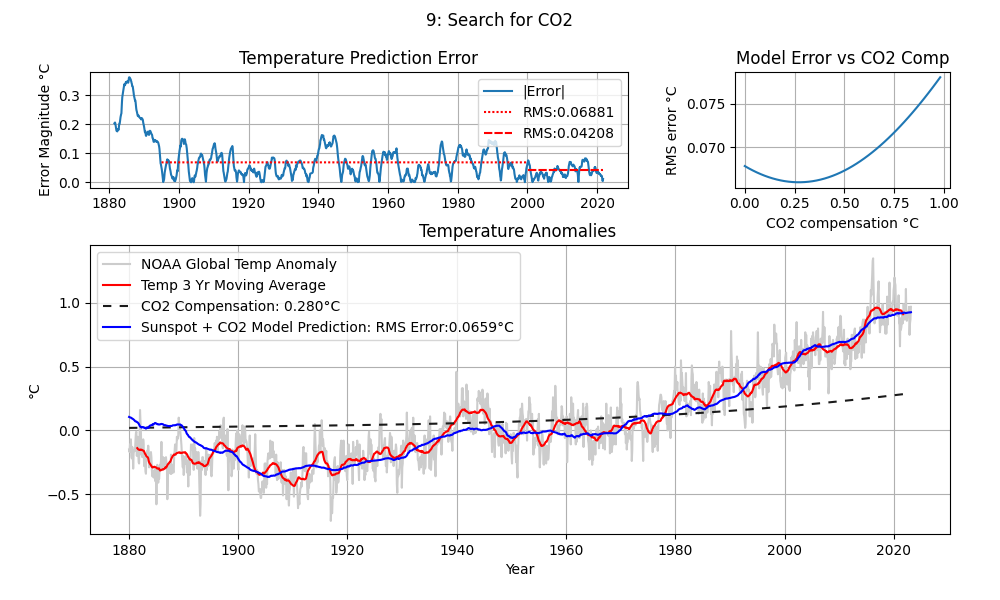
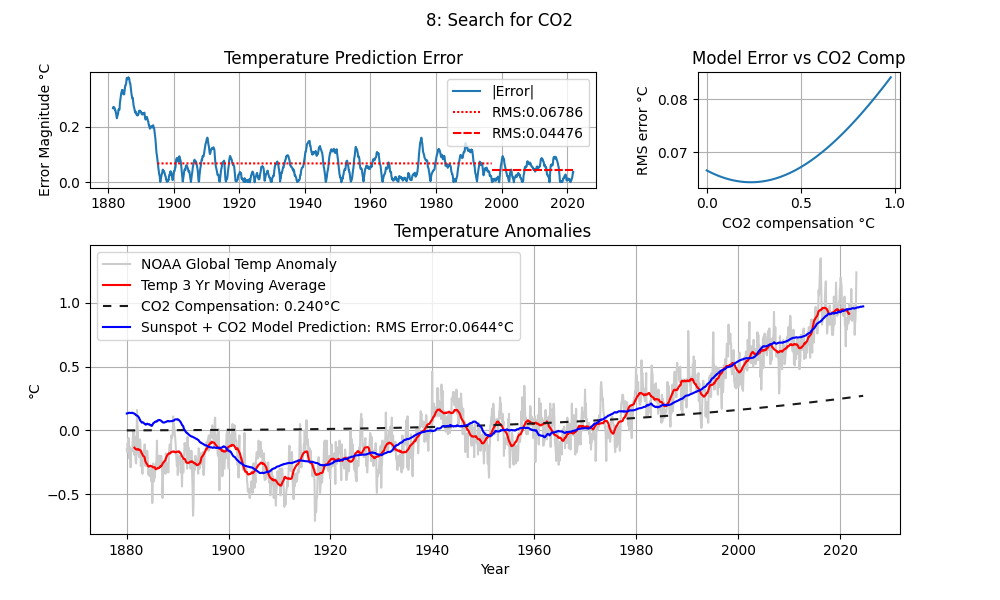
Add files via upload
Changed CO2 model to better match IPCC 1.1degC rise

diff --git a/tempPredict.py b/tempPredict.py
@@ -53,7 +53,7 @@ About the model types
    NOTE:  The RMS errors shown below may not match your results as the sunspot and global temperature datasets are modified and updated
 
 #CO2 only model. 
-#RMS error: 0.0924
+#RMS error: 0.0924   CO2 comp: 1.121
 parms = {'modelName':'1: CO2 Only Model','fname':'', 'modType':'NONE',
          'rectW':99, 'rectW2':11.1, 'MA':3, 'M42':True, 
          'f42parms':f42parms1, 'f11parms':f11parms3, 'advance':0, 'co2comp':-1}  
@@ -101,19 +101,19 @@ parms = {'modelName':'6: Best Sunspot-Only Lower error after '+str(splitYear),'f
          'f42parms':f42parms1, 'f11parms':f11parms2, 'advance':1.3, 'weightedFit':True, 'extraWeight':3, 'co2comp':0.0}  
 
 #>>>>>>>>>>>>  Model with lowest overall RMS error, less accruate post splitYear  <<<<<<<<<<<<<<<<<<<. 
-#RMS error: 0.0641  CO2 comp: 0.194
+#RMS error: 0.0638  CO2 comp: 0.162
 parms = {'modelName':'7: Winner -- Model with Lowest RMS error','fname':'LowestRmsModel.csv',
          'modType':'NOTCH','rectW':98, 'rectW2':11, 'MA':3, 'M42':True, 
          'f42parms':f42parms1, 'f11parms':f11parms1, 'advance':1.2, 'co2comp':-1}  
 
 #  Search demo uses f11parms3 compromise notch filter settings. 
-#RMS error: 0.0647  CO2 comp:0.28
+#RMS error: 0.0644  CO2 comp:0.24
 parms = {'modelName':'8: Search for CO2','fname':'co2Search.csv',
          'modType':'NOTCH','rectW':98, 'rectW2':11, 'MA':3, 'M42':True, 'optimalCO2': False,
          'f42parms':f42parms1, 'f11parms':f11parms3, 'advance':1.4, 'co2comp':-1}  
 
 #>>>>>>>>>>> Best Overall Model. Balances overall RMS error with post splitYear accuracy <<<<<<<<<<<<<<<<<. 
-#RMS error: 0.0663 CO2 comp:0.246
+#RMS error: 0.0663 CO2 comp:0.213
 parms = {'modelName':'9: Winner -- Overall Best Model','fname':'bestOverallModel.csv',
          'modType':'NOTCH','rectW':98, 'rectW2':11, 'MA':3, 'M42':True, 
          'f42parms':f42parms1, 'f11parms':f11parms2, 'advance':1.4, 'weightedFit':True, 'extraWeight':4, 'co2comp':-1}  
@@ -164,7 +164,8 @@ def getCO2model(scale=1):
     # The polynomial is a fit to the temperature data, but the model returns predictions
     # very close to the log of co2 contributions.
     # This model allows the co2 compensation prediction to extend into the future
-    polyco2 = [ 3.03495678e-07, -1.71295381e-03,  3.22327145e+00, -2.02202272e+03]
+    #polyco2 = [ 3.03495678e-07, -1.71295381e-03,  3.22327145e+00, -2.02202272e+03] # .09 - 1 degC from 1880- Nov 2020
+    polyco2 = [ 3.51809168e-07, -1.98563900e-03,  3.73638417e+00, -2.34401630e+03]  # 0 - 1.1 degC from 1880-Feb 2023
     co2Model = np.poly1d([x*scale for x in polyco2])
     return co2Model
 
